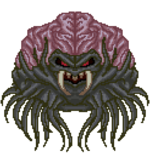
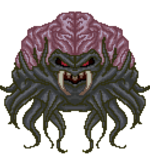
refactor: Update boss animation speed and texture order

Changed region(s): [[0.0, 0.5161, 1.0, 1.0]]

diff --git a/Implementations/Game.cpp b/Implementations/Game.cpp
@@ -87,11 +87,9 @@ void Game::initBoss()
 {
     std::vector<const char *> textures =
         {
-            "Assets/Image/boss3.png",
-            "Assets/Image/boss2.png",
             "Assets/Image/boss1.png",
-            "Assets/Image/boss5.png",
-            "Assets/Image/boss4.png",
+            "Assets/Image/boss2.png",
+            "Assets/Image/boss3.png",
         };
 
     this->boss = new Boss(textures, *this->window, this->hero, 50.f);

diff --git a/Headers/Boss.hpp b/Headers/Boss.hpp
@@ -17,7 +17,7 @@ private:
     float bossSpeed = 50.f;
     int currentTextureIndex = 0;
     float animationTime = 0.f;
-    float timePerFrame = 0.21f;
+    float timePerFrame = 0.175f;
     Attribute *life;
     Hero *hero;
 
